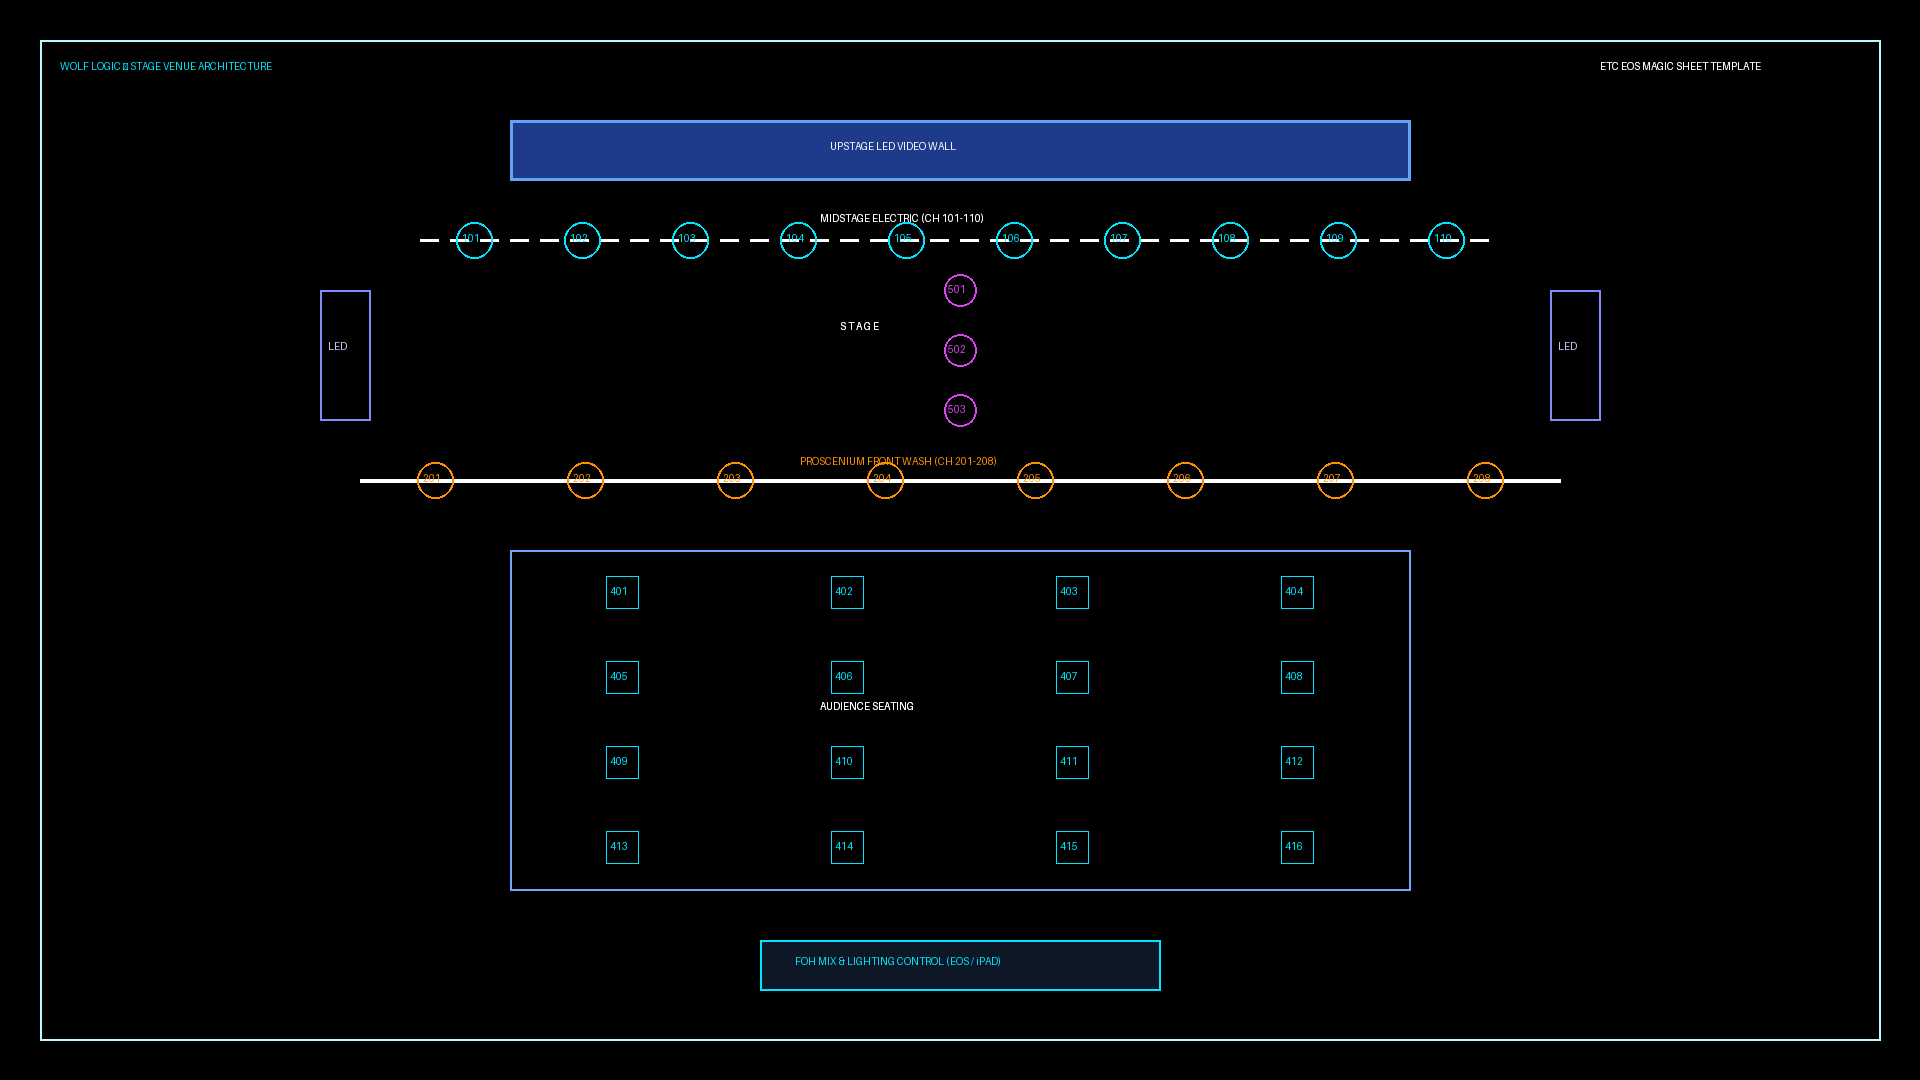
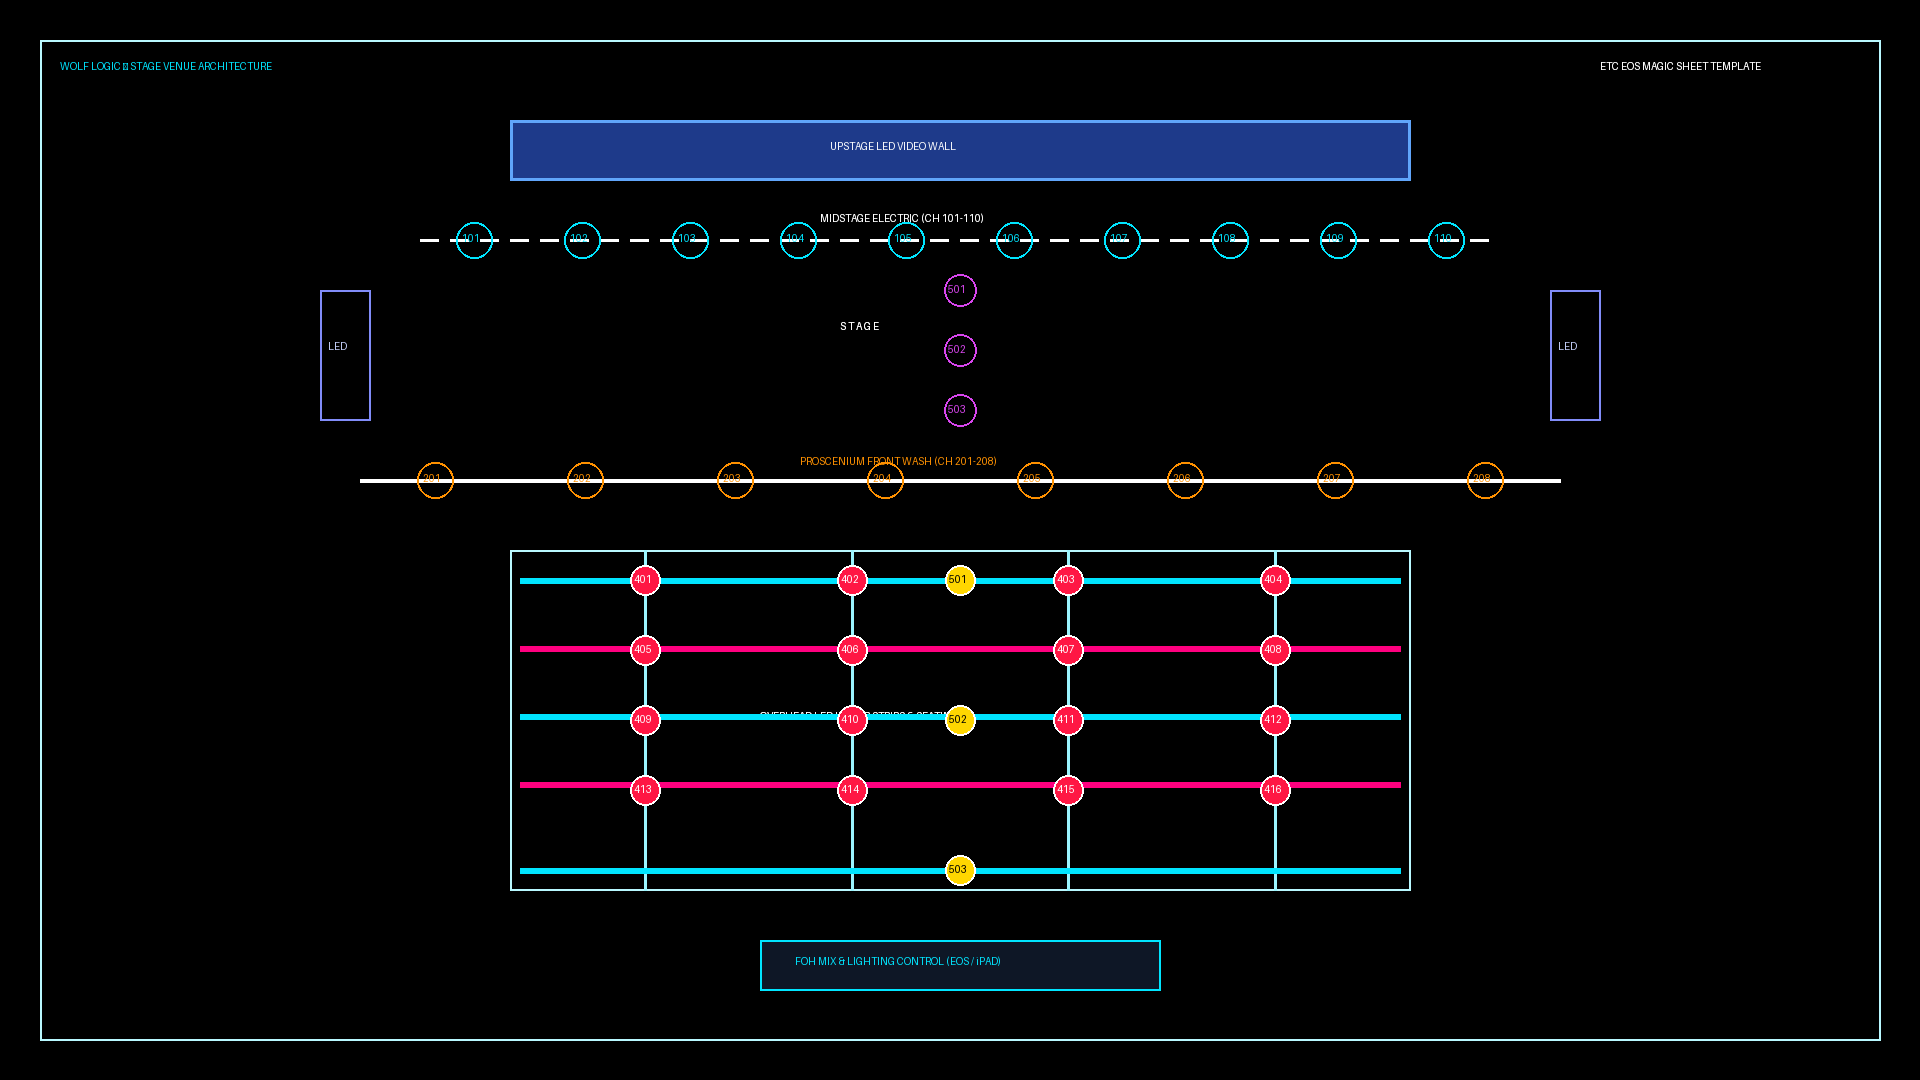
feat: render exact Breakaway Theater overhead glowing LED linear strips (grid) and FOH moving heads in Magic Sheet

Changed region(s): [[0.25, 0.5806, 0.75, 0.825], [0.2812, 0.5194, 0.7188, 0.55]]

diff --git a/public/magicsheet.html b/public/magicsheet.html
@@ -292,14 +292,15 @@
       color: #000;
     }
 
-    /* Audience Seating Grid */
+    /* Audience Seating - Overhead LED Linear Strips Grid */
     .audience-box {
-      border: 1px solid rgba(59, 130, 246, 0.4);
-      border-radius: 10px;
-      padding: 16px;
+      border: 1px solid rgba(0, 229, 255, 0.4);
+      border-radius: 12px;
+      padding: 20px 16px;
       margin-top: 14px;
-      background: rgba(15, 23, 42, 0.5);
+      background: radial-gradient(circle at 50% 50%, rgba(20, 10, 35, 0.7) 0%, rgba(0, 0, 0, 0.95) 80%);
       position: relative;
+      overflow: hidden;
     }
 
     .audience-bg-text {
@@ -307,26 +308,81 @@
       top: 50%;
       left: 50%;
       transform: translate(-50%, -50%);
-      font-size: 1.5rem;
+      font-size: 1.6rem;
       font-weight: 900;
-      color: rgba(255, 255, 255, 0.06);
-      letter-spacing: 6px;
+      color: rgba(255, 255, 255, 0.05);
+      letter-spacing: 8px;
+      pointer-events: none;
+      white-space: nowrap;
+    }
+
+    /* Overhead LED Linear Strips Container */
+    .ceiling-strips-grid {
+      position: relative;
+      height: 300px;
+      width: 100%;
+      display: flex;
+      flex-direction: column;
+      justify-content: space-between;
+    }
+
+    /* Horizontal Glowing LED Linear Strips (Alternating Cyan & Magenta) */
+    .led-strip-h {
+      height: 8px;
+      border-radius: 4px;
+      width: 100%;
+      position: relative;
+      z-index: 1;
+      display: flex;
+      justify-content: space-around;
+      align-items: center;
+    }
+    .strip-cyan {
+      background: #00e5ff;
+      box-shadow: 0 0 16px #00e5ff, 0 0 30px rgba(0, 229, 255, 0.6);
+    }
+    .strip-magenta {
+      background: #ff007f;
+      box-shadow: 0 0 16px #ff007f, 0 0 30px rgba(255, 0, 127, 0.6);
+    }
+
+    /* Vertical LED Linear Strips */
+    .vertical-strip-guide {
+      position: absolute;
+      top: 0;
+      bottom: 0;
+      width: 4px;
+      background: rgba(0, 229, 255, 0.35);
+      box-shadow: 0 0 8px rgba(0, 229, 255, 0.4);
+      z-index: 1;
       pointer-events: none;
     }
 
-    .grid-lines {
-      display: grid;
-      grid-template-columns: repeat(4, 1fr);
-      grid-template-rows: repeat(4, 46px);
+    /* FOH Moving Head Nodes at Grid Intersections */
+    .foh-mover-node {
+      width: 32px;
+      height: 32px;
+      border-radius: 50%;
+      background: #ff1744;
+      border: 2px solid #ffffff;
+      color: #ffffff;
+      display: flex;
+      align-items: center;
+      justify-content: center;
+      font-size: 0.65rem;
+      font-weight: bold;
+      box-shadow: 0 0 16px #ff1744;
+      cursor: pointer;
+      z-index: 5;
+      transition: transform 0.15s ease;
     }
-
-    .grid-node {
-      background: #9c27b0;
-      box-shadow: 0 0 10px #9c27b0;
-      margin: auto;
-      color: #fff;
-      width: 28px;
-      height: 28px;
+    .foh-mover-node:active {
+      transform: scale(1.3);
+    }
+    .special-mover-node {
+      background: #ffd600;
+      color: #000;
+      box-shadow: 0 0 16px #ffd600;
     }
 
     /* FOH Station */
@@ -484,26 +540,55 @@
           <div class="fixture-node wash-node">208</div>
         </div>
 
-        <!-- Audience Seating 4x4 Grid -->
+        <!-- Audience Seating: Overhead Glowing LED Linear Strips & Moving Heads -->
         <div class="audience-box">
-          <div class="audience-bg-text">AUDIENCE SEATING</div>
-          <div class="grid-lines">
-            <div class="fixture-node grid-node">401</div>
-            <div class="fixture-node grid-node">402</div>
-            <div class="fixture-node grid-node">403</div>
-            <div class="fixture-node grid-node">404</div>
-            <div class="fixture-node grid-node">405</div>
-            <div class="fixture-node grid-node">406</div>
-            <div class="fixture-node grid-node">407</div>
-            <div class="fixture-node grid-node">408</div>
-            <div class="fixture-node grid-node">409</div>
-            <div class="fixture-node grid-node">410</div>
-            <div class="fixture-node grid-node">411</div>
-            <div class="fixture-node grid-node">412</div>
-            <div class="fixture-node grid-node">413</div>
-            <div class="fixture-node grid-node">414</div>
-            <div class="fixture-node grid-node">415</div>
-            <div class="fixture-node grid-node">416</div>
+          <div class="audience-bg-text">AUDIENCE SEATING & OVERHEAD LED STRIPS</div>
+          
+          <div class="ceiling-strips-grid">
+            <!-- 4 Vertical LED Linear Strip Guides -->
+            <div class="vertical-strip-guide" style="left: 12%;"></div>
+            <div class="vertical-strip-guide" style="left: 37%;"></div>
+            <div class="vertical-strip-guide" style="left: 63%;"></div>
+            <div class="vertical-strip-guide" style="left: 88%;"></div>
+
+            <!-- Horizontal LED Strip 1 (Cyan) -->
+            <div class="led-strip-h strip-cyan">
+              <div class="foh-mover-node" title="FOH Mover Ch 401">401</div>
+              <div class="foh-mover-node" title="FOH Mover Ch 402">402</div>
+              <div class="foh-mover-node special-mover-node" title="Centerline Special Ch 501">501</div>
+              <div class="foh-mover-node" title="FOH Mover Ch 403">403</div>
+              <div class="foh-mover-node" title="FOH Mover Ch 404">404</div>
+            </div>
+
+            <!-- Horizontal LED Strip 2 (Magenta) -->
+            <div class="led-strip-h strip-magenta">
+              <div class="foh-mover-node" title="FOH Mover Ch 405">405</div>
+              <div class="foh-mover-node" title="FOH Mover Ch 406">406</div>
+              <div class="foh-mover-node" title="FOH Mover Ch 407">407</div>
+              <div class="foh-mover-node" title="FOH Mover Ch 408">408</div>
+            </div>
+
+            <!-- Horizontal LED Strip 3 (Cyan) -->
+            <div class="led-strip-h strip-cyan">
+              <div class="foh-mover-node" title="FOH Mover Ch 409">409</div>
+              <div class="foh-mover-node" title="FOH Mover Ch 410">410</div>
+              <div class="foh-mover-node special-mover-node" title="Centerline Special Ch 502">502</div>
+              <div class="foh-mover-node" title="FOH Mover Ch 411">411</div>
+              <div class="foh-mover-node" title="FOH Mover Ch 412">412</div>
+            </div>
+
+            <!-- Horizontal LED Strip 4 (Magenta) -->
+            <div class="led-strip-h strip-magenta">
+              <div class="foh-mover-node" title="FOH Mover Ch 413">413</div>
+              <div class="foh-mover-node" title="FOH Mover Ch 414">414</div>
+              <div class="foh-mover-node" title="FOH Mover Ch 415">415</div>
+              <div class="foh-mover-node" title="FOH Mover Ch 416">416</div>
+            </div>
+
+            <!-- Horizontal LED Strip 5 (Cyan) -->
+            <div class="led-strip-h strip-cyan">
+              <div class="foh-mover-node special-mover-node" title="Centerline Special Ch 503" style="margin: auto;">503</div>
+            </div>
           </div>
         </div>
 

diff --git a/scripts/generate_magic_sheet_png.py b/scripts/generate_magic_sheet_png.py
@@ -93,24 +93,51 @@ def create_magic_sheet_png(output_path, width=1920, height=1080):
         draw.ellipse([(wx - 18, pros_y - 18), (wx + 18, pros_y + 18)], outline=AMBER, width=2)
         draw.text((wx - 12, pros_y - 8), f"{201+i}", fill=AMBER)
 
-    # 5. AUDIENCE SEATING 4x4 GRID
+    # 5. AUDIENCE SEATING — OVERHEAD GLOWING LED LINEAR STRIPS (GRID)
     aud_w = 900
     aud_h = 340
     aud_x0 = (width - aud_w) // 2
     aud_y0 = 550
-    draw.rectangle([(aud_x0, aud_y0), (aud_x0 + aud_w, aud_y0 + aud_h)], outline=GRID_BORDER, width=2)
-    draw.text((width // 2 - 140, aud_y0 + 150), "AUDIENCE SEATING", fill=WHITE_FAINT)
+    draw.rectangle([(aud_x0, aud_y0), (aud_x0 + aud_w, aud_y0 + aud_h)], outline=CYAN_DIM, width=2)
+    draw.text((width // 2 - 200, aud_y0 + 160), "OVERHEAD LED LINEAR STRIPS & SEATING", fill=WHITE_FAINT)
 
-    # 4x4 Grid Points (Ch 401 - 416)
-    cell_w = aud_w // 4
-    cell_h = aud_h // 4
-    for row in range(4):
-        for col in range(4):
-            ch_num = 401 + (row * 4) + col
-            gx = aud_x0 + (col * cell_w) + (cell_w // 2)
-            gy = aud_y0 + (row * cell_h) + (cell_h // 2)
-            draw.rectangle([(gx - 16, gy - 16), (gx + 16, gy + 16)], outline=CYAN, width=1)
-            draw.text((gx - 12, gy - 7), f"{ch_num}", fill=CYAN)
+    # 4 Vertical LED Linear Strip Lines
+    vert_cols = [aud_x0 + int(aud_w * 0.15), aud_x0 + int(aud_w * 0.38), 
+                 aud_x0 + int(aud_w * 0.62), aud_x0 + int(aud_w * 0.85)]
+    for vx in vert_cols:
+        draw.line([(vx, aud_y0), (vx, aud_y0 + aud_h)], fill=(0, 229, 255, 100), width=3)
+
+    # 5 Horizontal Overhead Glowing LED Linear Strips (Alternating Cyan & Magenta)
+    strip_colors = [
+        (0, 229, 255, 255),    # 1. Cyan
+        (255, 0, 127, 255),    # 2. Magenta
+        (0, 229, 255, 255),    # 3. Cyan
+        (255, 0, 127, 255),    # 4. Magenta
+        (0, 229, 255, 255),    # 5. Cyan
+    ]
+    h_step = aud_h // 4
+    for s_idx, scolor in enumerate(strip_colors):
+        sy = aud_y0 + (s_idx * (aud_h // 5)) + 30
+        if s_idx == 4:
+            sy = aud_y0 + aud_h - 20
+        # Draw thick glowing linear LED strip
+        draw.line([(aud_x0 + 10, sy), (aud_x0 + aud_w - 10, sy)], fill=scolor, width=6)
+
+    # FOH Overhead Moving Head Spot Nodes at Grid Intersections (Ch 401 - 416)
+    mover_rows = [aud_y0 + 30, aud_y0 + 100, aud_y0 + 170, aud_y0 + 240]
+    RED_MOVER = (255, 23, 68, 255)
+    for r_idx, my in enumerate(mover_rows):
+        for c_idx, mx in enumerate(vert_cols):
+            ch_num = 401 + (r_idx * 4) + c_idx
+            # Red moving head circle with white border
+            draw.ellipse([(mx - 15, my - 15), (mx + 15, my + 15)], fill=RED_MOVER, outline=(255, 255, 255, 255), width=2)
+            draw.text((mx - 11, my - 7), f"{ch_num}", fill=(255, 255, 255, 255))
+
+    # Centerline Specials (Ch 501, 502, 503)
+    center_x = width // 2
+    for s_idx, spy in enumerate([aud_y0 + 30, aud_y0 + 170, aud_y0 + aud_h - 20]):
+        draw.ellipse([(center_x - 15, spy - 15), (center_x + 15, spy + 15)], fill=(255, 214, 0, 255), outline=(255, 255, 255, 255), width=2)
+        draw.text((center_x - 11, spy - 7), f"{501+s_idx}", fill=(0, 0, 0, 255))
 
     # 6. FOH MIX & LIGHTING CONTROL STATION
     foh_w = 400
